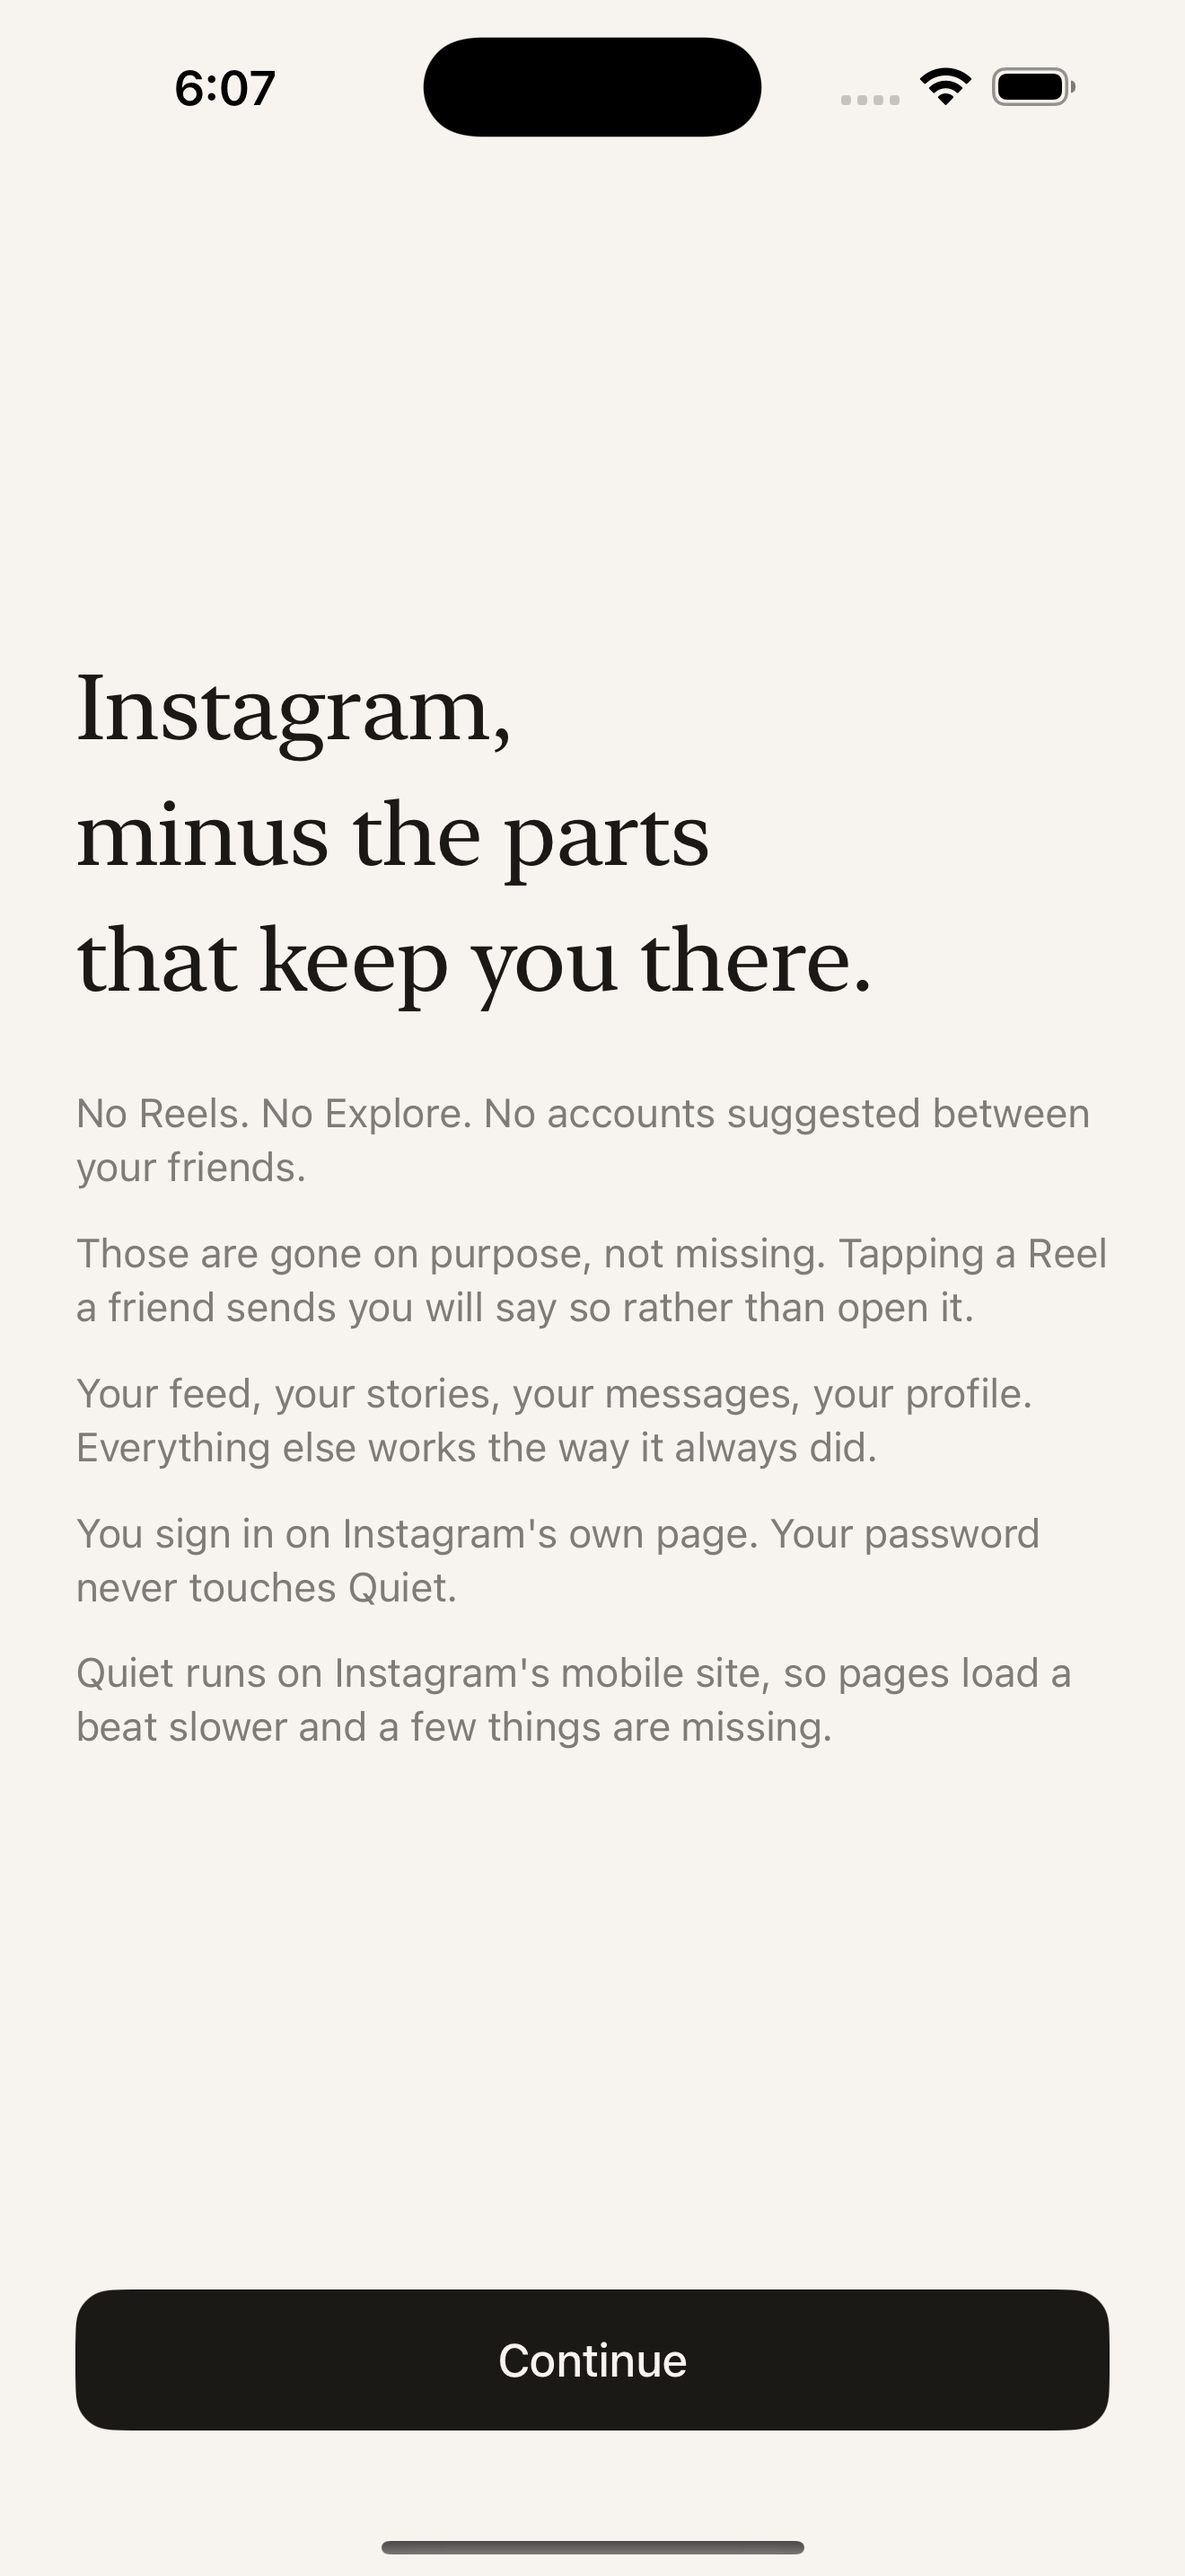
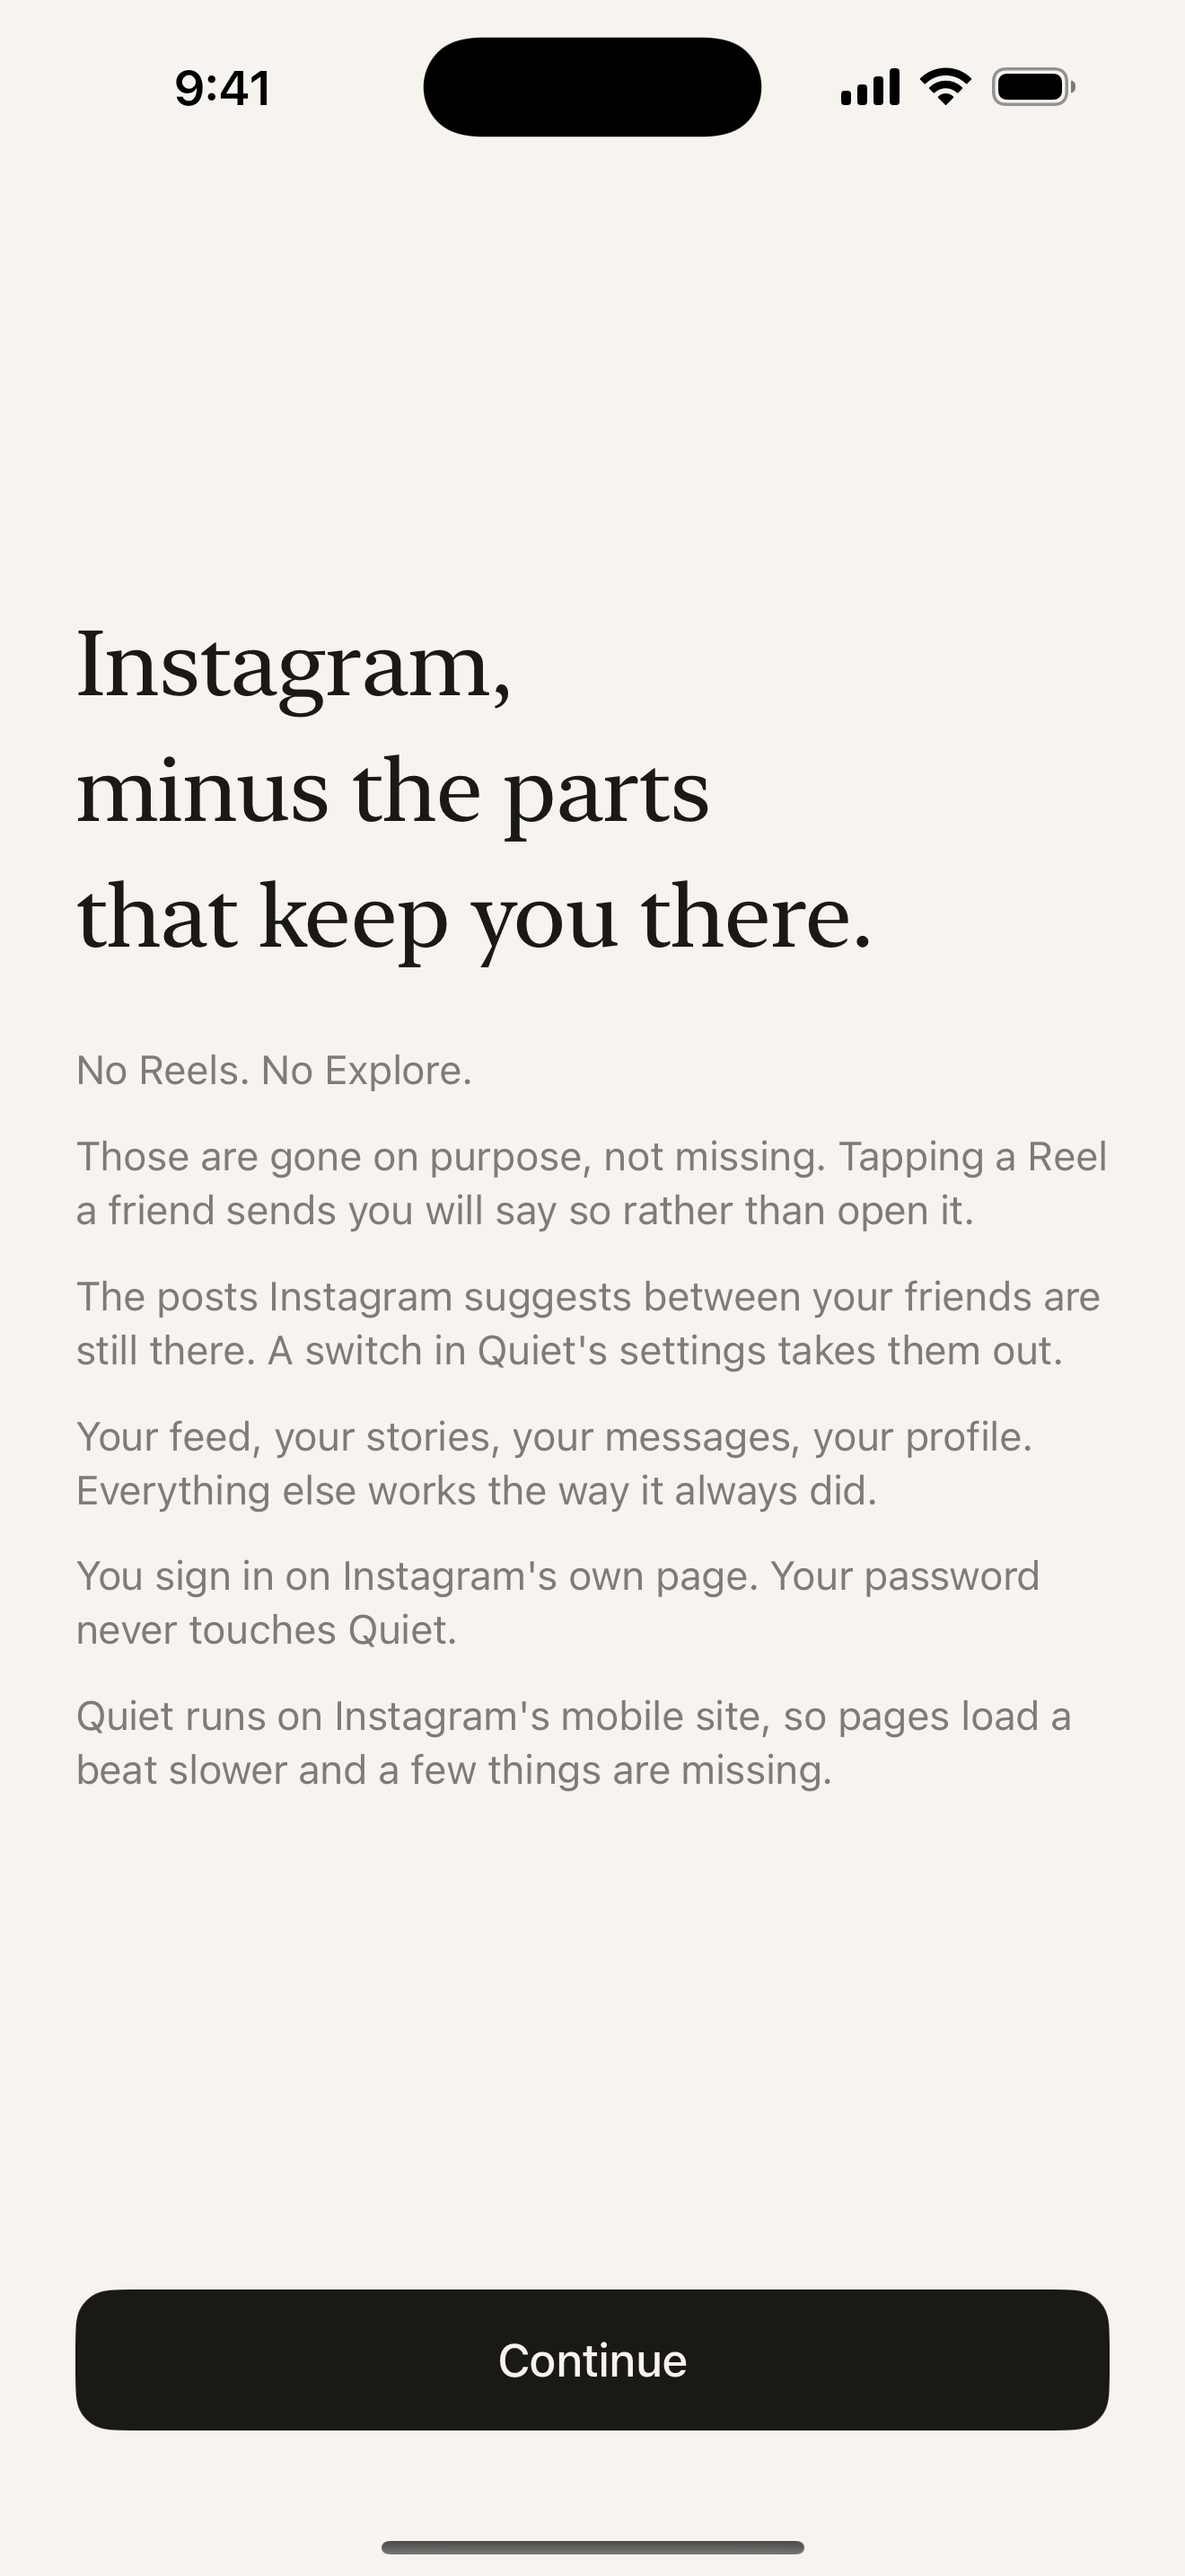
Photograph it in every language it now speaks
Five sets of seven slides — English, German, Spanish, French and Brazilian
Portuguese — where there were two. `Tools/shots/out` stays ignored; what is
kept is what they are cut from.

**The English and German captures were of a build that no longer exists.**
`curtain`, `setup` and the settings screen all still had the four-icon row and
the old header, so a set composed today would have shown two languages of an
app nobody can install beside three of the one that ships. All twenty are
re-shot from the current build, at 9:41, at 1320 x 2868, and every one of them
is a different file from every other — the failure this most invites is four
languages of the same English photograph.

`panel-tomorrow` is out of the English slide 3. It came from that same dead
build, at a size no other frame has, and no rehearsal scene reproduces it;
`panel-light` is where the wait between increases lives now, which is what the
caption is about.

The feed frames stay shared and stay English. They are the developer's own
account, they cannot be re-shot without signing in, and the rule at the foot
of `make-shots.py` is why it is that account or none.

Changed region(s): [[0.0621, 0.2483, 0.9318, 0.7137], [0.7144, 0.031, 0.7455, 0.0621], [0.1864, 0.031, 0.2174, 0.0621]]

diff --git a/Quiet/Tools/make-shots.py b/Quiet/Tools/make-shots.py
@@ -990,7 +990,7 @@ SLIDES_V2 = {
         ("curtain", "dark", "No *five more*\nminutes.",
          "When today’s time is spent, Quiet closes for the day — and there is "
          "nothing on the screen to argue with.", [], None),
-        ("panel-tomorrow", "light", "Less *now*.\nMore *next week*.",
+        ("panel-light", "light", "Less *now*.\nMore *next week*.",
          "Lowering your daily limit takes effect at once. Raising it waits a "
          "week and starts the next day.", [], None),
         (None, "dark", "What *isn’t* here.",
@@ -1032,6 +1032,84 @@ SLIDES_V2 = {
         ("opening", "dark", "Kein Konto.\nKein *Tracking*.",
          "Keine Server von uns, keine Analytics, keine Werbung. Nichts zum "
          "Nachsehen, nichts zu schlagen.", [], None),
+    ],
+    "es": [
+        ("feed-open", "light", "Instagram,\nsin *Reels*.",
+         "El mismo feed, la misma gente, los mismos mensajes. La pestaña que "
+         "no termina nunca simplemente no está.", [],
+         ("Sin Reels", (0.50, 0.951))),
+        ("curtain", "dark", "Ni *cinco*\nminutos más.",
+         "Cuando el tiempo de hoy se acaba, Quiet cierra el día — y en la "
+         "pantalla no queda nada con lo que discutir.", [], None),
+        ("panel-light", "light", "Menos *ahora*.\nMás *en una semana*.",
+         "Bajar tu límite diario surte efecto de inmediato. Subirlo espera "
+         "una semana y empieza al día siguiente.", [], None),
+        (None, "dark", "Lo que *no* está.",
+         "Quitado por dirección, no escondido detrás de un ajuste que podrías "
+         "volver a activar a las once de la noche.",
+         ["Reels", "Explorar", "Cuentas sugeridas", "Autoplay",
+          "Rachas e informes"], None),
+        ("feed", "dark", "Tu feed.\nTu *gente*.",
+         "Historias, mensajes, comentarios, perfiles — todo, exactamente "
+         "donde estaba, en la propia página de Instagram.", [], None),
+        ("setup", "light", "Todo el trato,\n*de entrada*.",
+         "Lo que Quiet quita y lo que deja en paz, en la primera pantalla, "
+         "antes de que elijas nada.", [], None),
+        ("opening", "dark", "Sin cuenta.\nSin *rastreo*.",
+         "Ningún servidor nuestro, ninguna analítica, ninguna publicidad. "
+         "Nada que revisar y nada que superar.", [], None),
+    ],
+    "fr": [
+        ("feed-open", "light", "Instagram,\nsans *Reels*.",
+         "Le même fil, les mêmes gens, les mêmes messages. L’onglet qui ne "
+         "finit jamais a simplement disparu.", [],
+         ("Pas de Reels", (0.50, 0.951))),
+        ("curtain", "dark", "Pas *cinq*\nminutes de plus.",
+         "Quand le temps du jour est passé, Quiet ferme la journée — et il "
+         "n’y a rien à l’écran avec quoi discuter.", [], None),
+        ("panel-light", "light", "Moins *maintenant*.\nPlus *dans huit jours*.",
+         "Baisser ta limite quotidienne prend effet tout de suite. La relever "
+         "attend une semaine et commence le lendemain.", [], None),
+        (None, "dark", "Ce qui *n’est pas* là.",
+         "Retiré par adresse, pas caché derrière un réglage que tu pourrais "
+         "réactiver à onze heures du soir.",
+         ["Reels", "Explorer", "Comptes suggérés", "Autoplay",
+          "Séries et rapports"], None),
+        ("feed", "dark", "Ton fil.\nTes *gens*.",
+         "Stories, messages, commentaires, profils — tout y est, exactement "
+         "où c’était, sur la page d’Instagram elle-même.", [], None),
+        ("setup", "light", "Tout le marché,\n*d’emblée*.",
+         "Ce que Quiet retire et ce qu’il laisse tranquille, sur le premier "
+         "écran, avant que tu choisisses quoi que ce soit.", [], None),
+        ("opening", "dark", "Pas de compte.\nPas de *pistage*.",
+         "Aucun serveur à nous, aucune analyse, aucune publicité. Rien à "
+         "vérifier et rien à battre.", [], None),
+    ],
+    "pt-BR": [
+        ("feed-open", "light", "Instagram,\nsem *Reels*.",
+         "O mesmo feed, as mesmas pessoas, as mesmas mensagens. A aba que não "
+         "acaba nunca simplesmente sumiu.", [],
+         ("Sem Reels", (0.50, 0.951))),
+        ("curtain", "dark", "Nem *mais cinco*\nminutos.",
+         "Quando o tempo de hoje acaba, o Quiet fecha o dia — e não há nada "
+         "na tela com que discutir.", [], None),
+        ("panel-light", "light", "Menos *agora*.\nMais *em uma semana*.",
+         "Baixar seu limite diário vale na hora. Aumentar espera uma semana "
+         "e começa no dia seguinte.", [], None),
+        (None, "dark", "O que *não* está aqui.",
+         "Tirado por endereço, não escondido atrás de um ajuste que você "
+         "poderia religar às onze da noite.",
+         ["Reels", "Explorar", "Contas sugeridas", "Autoplay",
+          "Sequências e relatórios"], None),
+        ("feed", "dark", "Seu feed.\nSuas *pessoas*.",
+         "Stories, mensagens, comentários, perfis — tudo, exatamente onde "
+         "estava, na própria página do Instagram.", [], None),
+        ("setup", "light", "O acordo inteiro,\n*de cara*.",
+         "O que o Quiet tira e o que ele deixa em paz, na primeira tela, "
+         "antes de você escolher qualquer coisa.", [], None),
+        ("opening", "dark", "Sem conta.\nSem *rastreio*.",
+         "Nenhum servidor nosso, nenhuma análise, nenhuma publicidade. Nada "
+         "para conferir e nada para superar.", [], None),
     ],
 }
 
